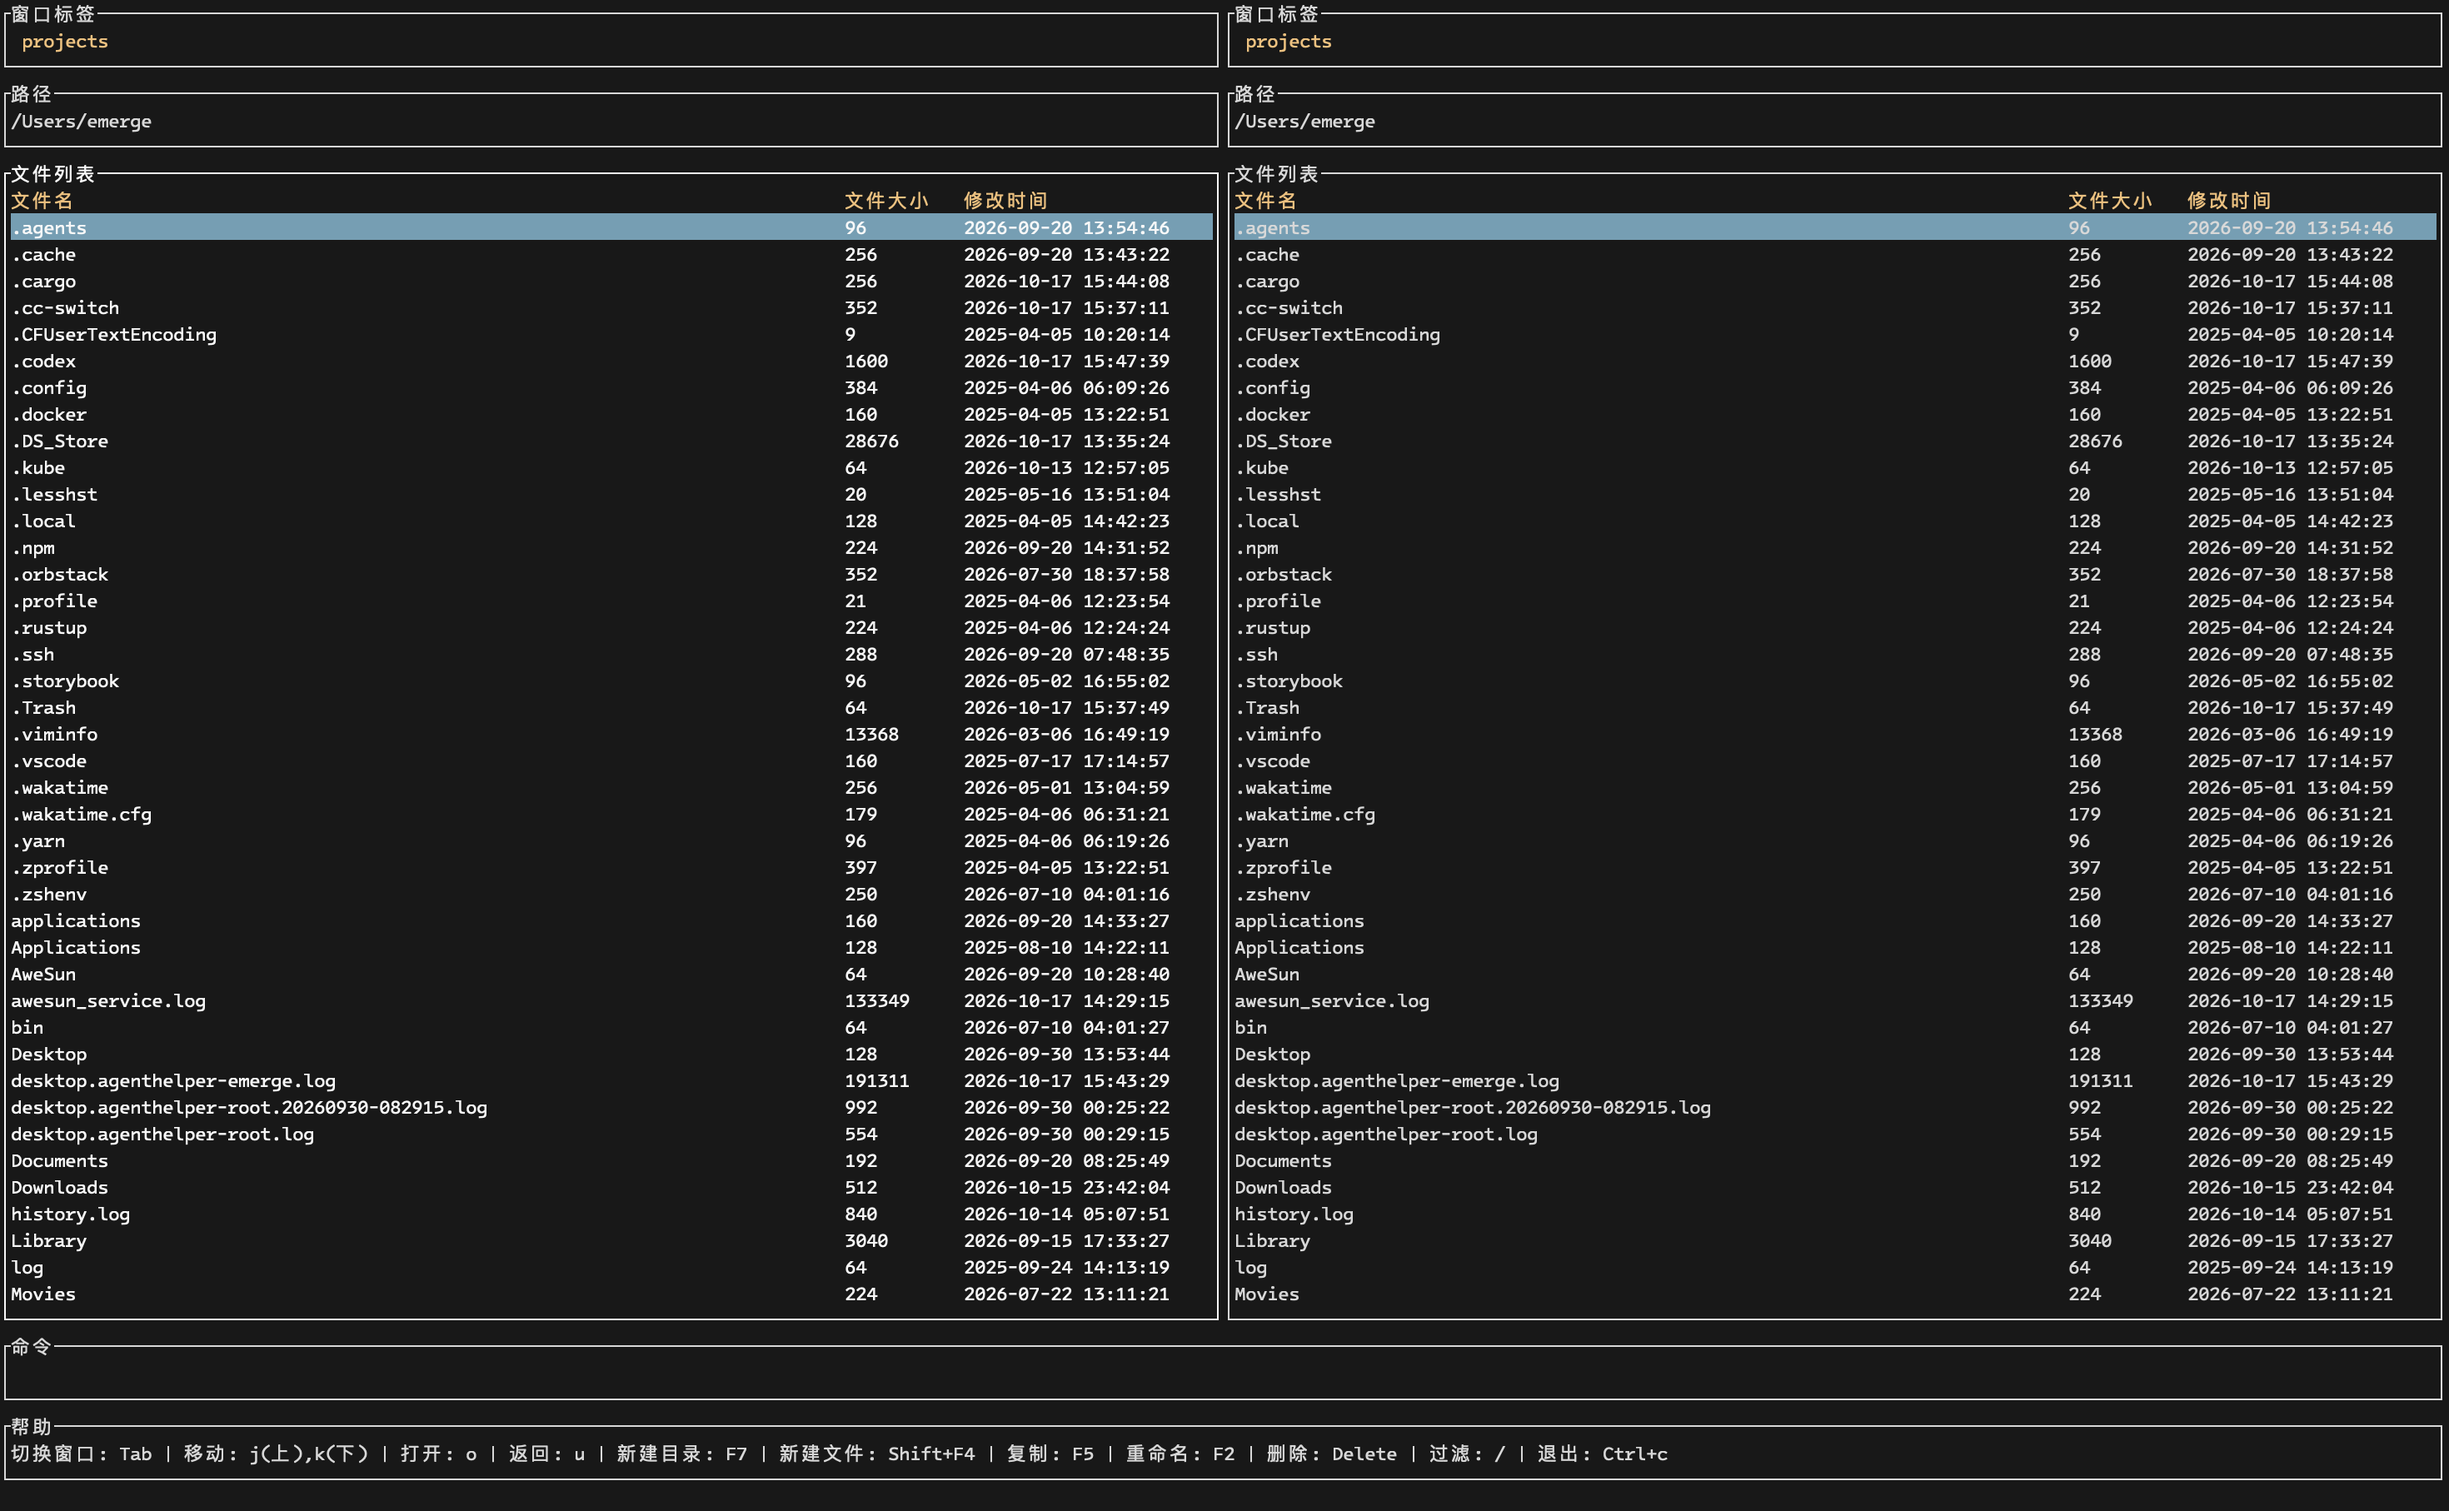
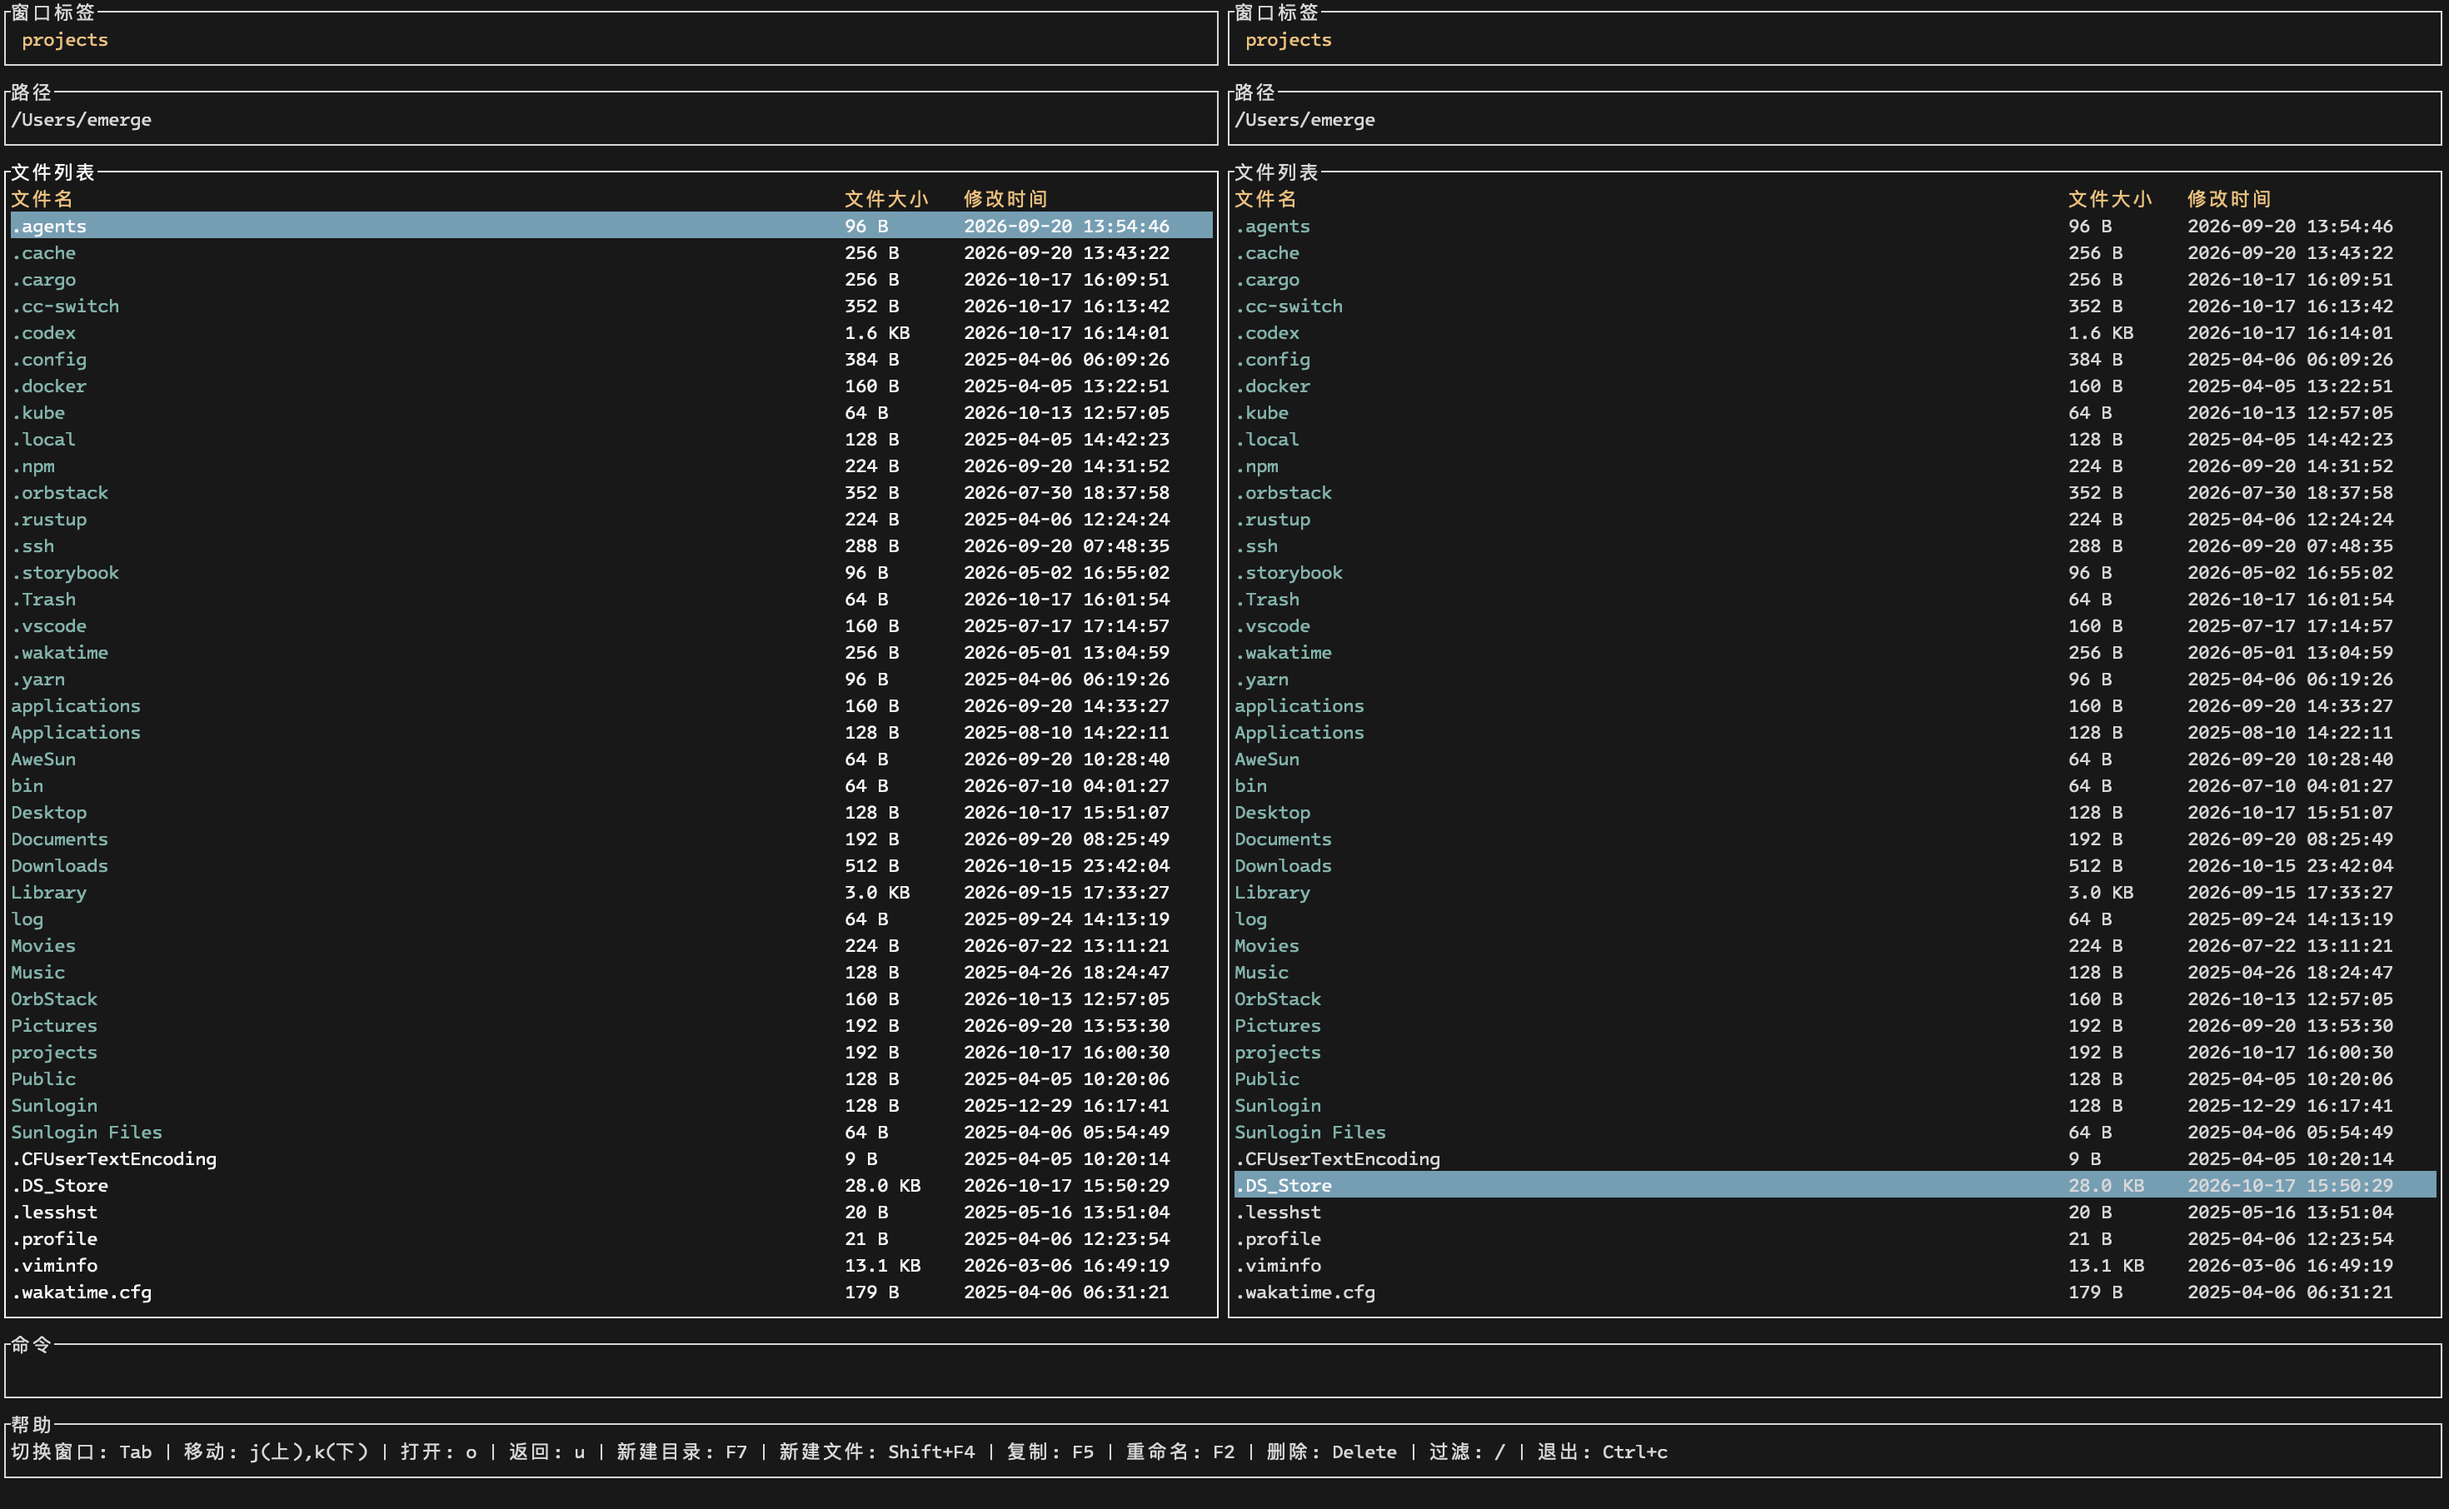
:recycle: refactor: 修改 优化文件列表显示

Changed region(s): [[0.0, 0.0, 1.0, 0.8653]]

diff --git a/src/components/file_window.rs b/src/components/file_window.rs
@@ -87,7 +87,8 @@ impl Component for FileWindow<'_> {
 		];
 		let table_header = [ "文件名", "文件大小", "修改时间", ];
 		let table_rows = self.list.iter()
-			.filter_map(|dir| {
+			.enumerate()
+			.filter_map(|(index, dir)| {
 				let file_path = dir.path();
 				let Ok(file_metadata) = dir.metadata() else {
 					return None;
@@ -95,14 +96,21 @@ impl Component for FileWindow<'_> {
 
 				let file_name = file_path.file_name().unwrap().to_str().unwrap();
 				let file_size = format_file_size(file_metadata.len());
+				let name_color = if index == self.current_index {
+					Color::White
+				} else if file_metadata.is_dir() {
+					Color::Cyan
+				} else {
+					active_color
+				};
 				let file_modified = file_metadata.modified().ok()
 					.map(|modified| DateTime::<Utc>::from(modified).format("%Y-%m-%d %H:%M:%S").to_string())
 					.unwrap_or_else(|| String::from("-"));
 
 				Some(Row::new(vec![
-					String::from(file_name),
-					file_size,
-					file_modified,
+					Span::styled(String::from(file_name), Style::default().fg(name_color)),
+					file_size.into(),
+					file_modified.into(),
 				]).style(Style::default().fg(active_color)))
 			})
 			.collect::<Vec<_>>()

diff --git a/src/store/file_window.rs b/src/store/file_window.rs
@@ -200,7 +200,10 @@ impl FileWindow {
 			return Vec::new();
 		};
 		let mut list = entries.filter_map(Result::ok).collect::<Vec<_>>();
-		list.sort_by_key(|entry| entry.path().to_string_lossy().to_lowercase());
+		list.sort_by_key(|entry| (
+			entry.file_type().map(|file_type| !file_type.is_dir()).unwrap_or(true),
+			entry.path().to_string_lossy().to_lowercase(),
+		));
 
 		return list;
 	}
